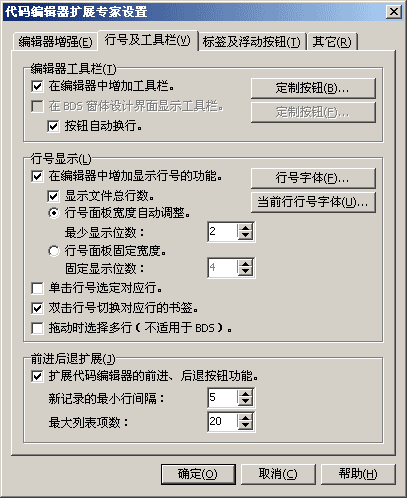
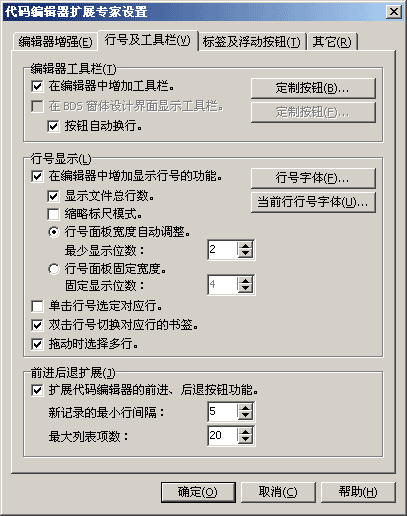
* [Editor Enhancement] Add Line Number 10th Setting.

Changed region(s): [[0.0, 0.0, 0.973, 0.994], [0.9435, 0.0, 1.0, 0.0602]]

diff --git a/Help/CnWizards_ENU/srcedtenh/srcedtgutter.htm b/Help/CnWizards_ENU/srcedtenh/srcedtgutter.htm
@@ -64,6 +64,9 @@ Clicking Line Number Gutter can toggle bookmark. Clicking the lines count area i
 <p class="text"><b>Cur.Line Number Font</b>: Change font and color of current line number.</p>
   </li>
   <li>
+<p class="text"><b>Only Show 10th Numbers</b>: If checked, gutter won't display all line numbers. Only the 10th Numbers displayed like a ruler.</p>
+  </li>
+  <li>
 <p class="text"><b>Auto Adjust Width of Line Number</b>: If selected, Line Number Gutter will automatically adjust its width according to
 lines count and displayed lines when switching to each file.</p>
   </li>
